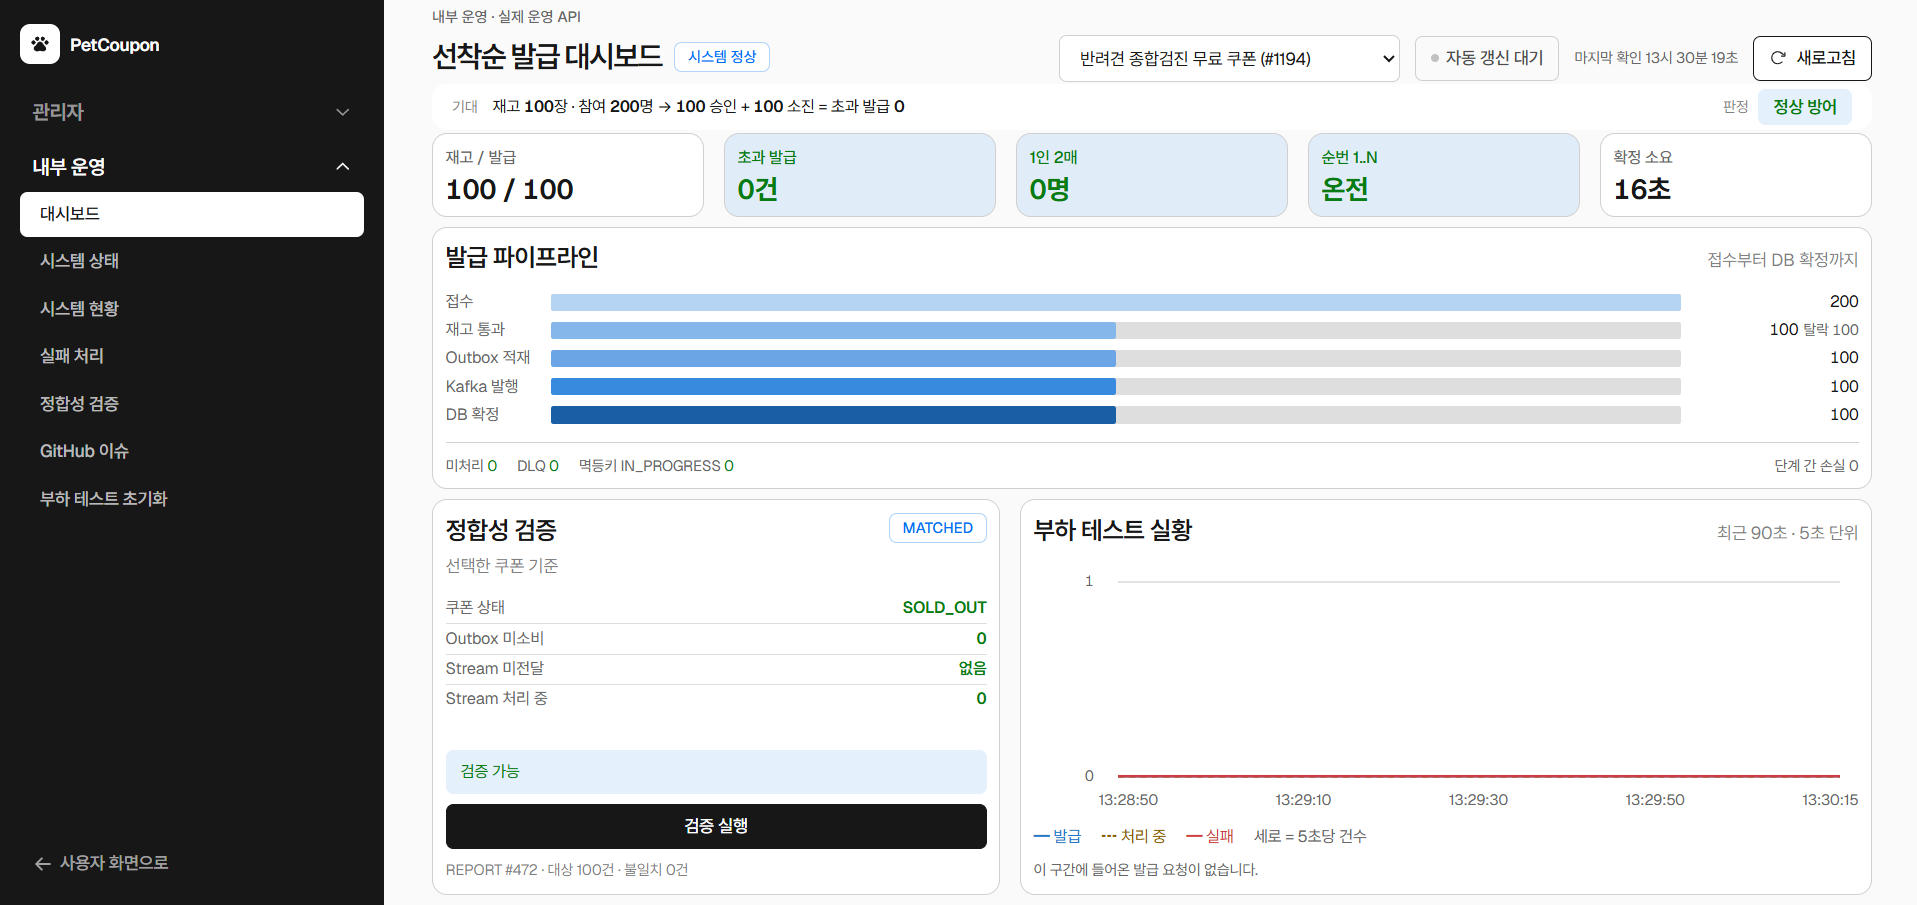
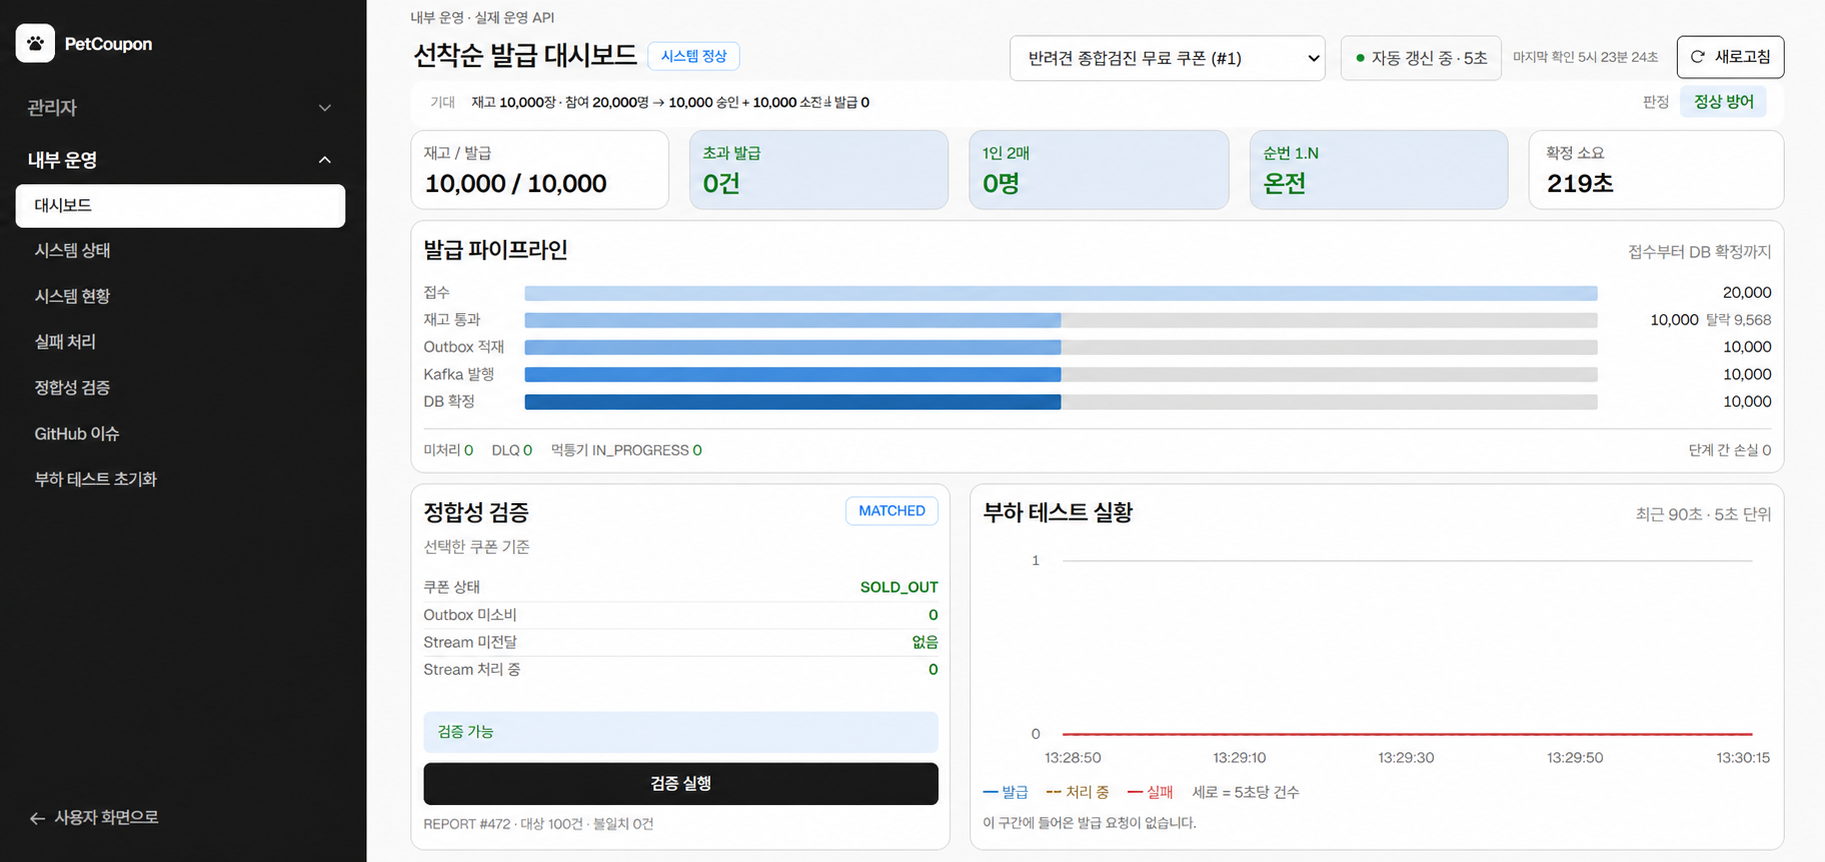
docs: README 주요 화면 이미지 현행화

diff --git a/README.md b/README.md
@@ -3,20 +3,28 @@
 반려동물 이벤트 기반 선착순 쿠폰 발급 시스템의 프론트엔드입니다. 사용자의 쿠폰 발급·사용 흐름부터 관리자 이벤트/쿠폰 관리, 운영 대시보드와 장애 대응 화면까지 하나의 애플리케이션에서 제공합니다.
 
 <p align="center">
-  <img src="./docs/images/event-list.png" alt="PetCoupon 사용자 메인 페이지의 진행 중 이벤트 목록" width="100%" />
+  <img src="./docs/images/petcoupon-main.png" alt="PetCoupon 이벤트 목록과 관리자 선착순 발급 대시보드" width="100%" />
 </p>
 
 ## 주요 화면
 
-| 이벤트 상세 및 쿠폰 발급 | 내 쿠폰 목록 |
-| --- | --- |
-| 이벤트에 연결된 쿠폰의 혜택과 실시간 재고를 확인하고 발급받을 수 있습니다. | 사용 가능, 사용 완료, 만료 상태별로 보유 쿠폰을 확인할 수 있습니다. |
-| <img src="./docs/images/event-detail.png" alt="이벤트 상세와 발급 가능한 쿠폰" width="100%" /> | <img src="./docs/images/my-coupons.png" alt="상태별 내 쿠폰 목록" width="100%" /> |
+### 1. 이벤트 상세 및 쿠폰 발급
 
-| 내 쿠폰 상세 | 관리자 발급 대시보드 |
-| --- | --- |
-| QR과 쿠폰 코드를 확인하고 쿠폰 사용 또는 사용 취소를 처리할 수 있습니다. | 발급 파이프라인, 정합성 검증과 부하 테스트 현황을 확인할 수 있습니다. |
-| <img src="./docs/images/coupon-detail.png" alt="내 쿠폰 상세와 사용 및 취소 기능" width="100%" /> | <img src="./docs/images/admin-dashboard.png" alt="관리자 선착순 발급 대시보드" width="100%" /> |
+이벤트에 연결된 쿠폰의 혜택과 실시간 재고를 확인하고 발급받을 수 있습니다.
+
+<img src="./docs/images/event-detail.png" alt="이벤트 상세와 발급 가능한 쿠폰" width="100%" />
+
+### 2. 내 쿠폰 목록
+
+사용 가능, 사용 완료, 만료 상태별로 보유 쿠폰을 확인할 수 있습니다.
+
+<img src="./docs/images/my-coupons.png" alt="상태별 내 쿠폰 목록" width="100%" />
+
+### 3. 내 쿠폰 상세
+
+QR과 쿠폰 코드를 확인하고 쿠폰 사용 또는 사용 취소를 처리할 수 있습니다.
+
+<img src="./docs/images/coupon-detail.png" alt="내 쿠폰 상세와 사용 및 취소 기능" width="100%" />
 
 ## 주요 기능
 
